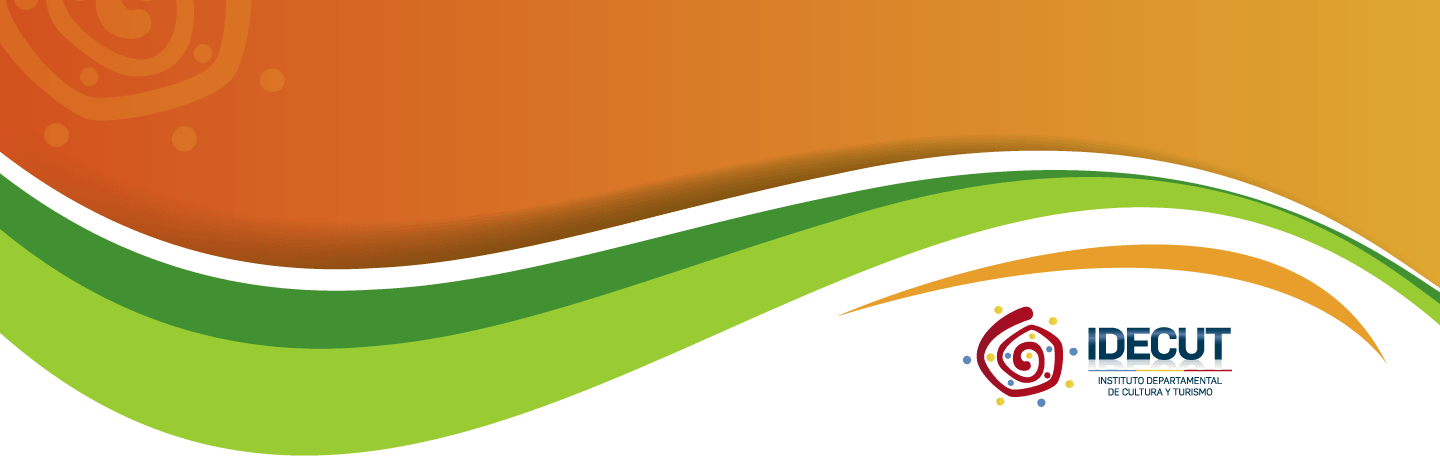
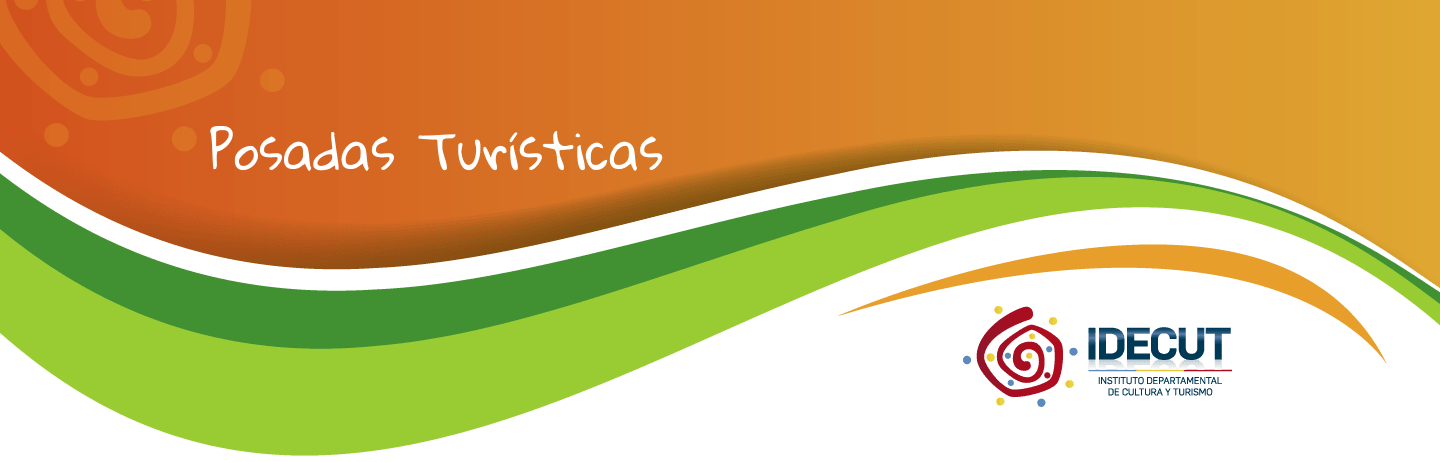
finish initial layout home

Changed region(s): [[0.125, 0.2727, 0.4688, 0.3636]]

diff --git a/project/styles.css b/project/styles.css
@@ -3,24 +3,24 @@
 * {
   margin: 0;
   padding: 0;
+  scroll-behavior: smooth;
   font-family: 'Quicksand', sans-serif;
 }
 
-.hero {
-  background-image: url('./assets/images/banner\ idecut\ posadas-100\ 1.png');
-  background-repeat: no-repeat;
-  background-size: contain;
-  height: 100vh;
-  /* background-position: center center; */
-  color: #fff;
-  display: flex;
-  align-items: flex-start;
+.hero .container img {
+  width: 100%;
 }
 
-.hero .container .title h1{
-  margin: 50px 70px;
-  font-size: 40px;
-  font-family: 'Gloria Hallelujah', cursive;
+#vive {
+  color: #F24F13;
+}
+
+#cmarca {
+  color: #99CC33;
+}
+
+#col {
+  color: #419133;
 }
 
 .wrapper {
@@ -33,6 +33,7 @@
 
 .content h3 {
   font-size: 20px;
+  font-weight: 400;
 }
 
 .content h2 {
@@ -46,6 +47,7 @@
   justify-content: center;
   align-items: center;
   margin: 5px 0;
+  position: relative;
 }
 
 .cards .card {
@@ -57,15 +59,32 @@
   margin: 10px;
 }
 
-.mainFooter{
-
+.contentCards h3 {
+  position: relative;
+  color: #fff;
+  text-align: center;
+  z-index: 1;
+  margin: 40px 0;
 }
 
-.mainFooter {
+.footer {
+  margin: -400px 0;
+}
+
+.footer img {
   width: 100%;
-  height: 100%;
-  background-image: url('./assets/images/footer-8\ 1.png');
-  background-repeat: no-repeat;
-  background-size: contain;
-  position: absolute;
+  margin: 0;
+}
+
+@media screen and (max-width: 810px){
+  .wrapper {
+    width: 100%;
+    margin: 0;
+  }
+  .content h2 {
+    font-size: 20px;
+  }
+  .footer {
+    margin: -200px 0;
+  }
 }

diff --git a/project/index.html b/project/index.html
@@ -10,8 +10,8 @@
 <body>
   <section class="hero">
     <div class="container">
+      <img src="./assets/images/banner idecut posadas-100 1.png" alt="">
       <div class="title">
-        <h1>Posadas Turísticas</h1>
       </div>
     </div>
   </section>
@@ -22,13 +22,13 @@
           <h3>Sal de la rutina, disfruta la naturaleza, desconectate y vive experiencias únicas en Cundinamarca</h3>
         </div>
         <div>
-          <h2>Vive Cundinamarca</h2>
+          <h2><span id="vive">Vive</span> <span id="cmarca">Cundinamarca</span> <span id="col">Colombia</span></h2>
         </div>
       </div>
     </div>
   </section>
   <section>
-    <div>
+    <div class="contentCards">
       <div class="cards">
         <div class="card">
         </div>
@@ -40,12 +40,25 @@
         </div>
         <div class="card">
         </div>
+        <div class="card">
+        </div>
+        <div class="card">
+        </div>
+        <div class="card">
+        </div>
+        <div class="card">
+        </div>
+        <div class="card">
+        </div>
+      </div>
+      <div>
+        <h3>Instituto Departamental de Cultura y Turismo | IDECUT</h3>
       </div>
     </div>
   </section>
-  <section class="mainFooter">
+  <section>
     <footer class="footer">
-      <!-- <img src="./assets/images/footer-8 1.png" alt="idecut ondas footer"> -->
+      <img src="./assets/images/footer-8 1.png" alt="">
     </footer>
   </section>
 </body>
